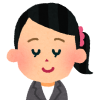
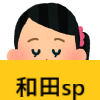
データ要素追加

diff --git a/src/components/Book_list.vue b/src/components/Book_list.vue
@@ -111,9 +111,10 @@
                   <ul v-for="emp in filteredemps(book.keyword)" v-bind:key="emp.id">
                     <li>
                       <router-link :to="`/employee/1`">
+                        <p>{{emp.Name}}</p>
                         <img :src="emp.Icon">
                       </router-link>
-                      <button class="buttonmenu" v-on:click="openModal(book)">
+                      <button class="buttonmenu" v-on:click="openModal(book.id,book)">
                         感想を見る
                       </button>
                       <MyModal :val="postBook" :commentId=1 @close="closeModal" v-if="modal[book.id-1]">
@@ -122,7 +123,7 @@
                   </ul>
                 <br />  
               </li>
-              <li>
+              <!-- <li>
                 <img alt="user img" :src="book.employee2" />
                 <br />
                 <button class="buttonmenu" v-on:click="openModal2(book)">
@@ -130,7 +131,7 @@
                 </button>
                 <MyModal :val="postBook"  :commentId=2 @close="closeModal2" v-if="modal2">
                 </MyModal>
-              </li>
+              </li> -->
             </ul>
           </td>
           <!--</div>-->
@@ -231,7 +232,7 @@ export default {
       employees : [
            {id:1,
            Icon:require('../assets/emp4.png'),
-           Name:'多田 孝和',
+           Name:'島侑奈',
            Organization1:'技術本部',
            Organization2:'',
            Organization3:'情報システム部',
@@ -273,7 +274,18 @@ export default {
            },
            {id:2,
            Icon:require('../assets/emp2.png'),
+           Name:'多田孝和',
            Skillemp     :'ネットワーク',
+           },
+           {id:3,
+           Icon:require('../assets/Specialist.png'),
+           Name:'松井允希',
+           Skillemp     :'マネジメント',
+           },
+           {id:4,
+           Icon:require('../assets/emp3.png'),
+           Name:'和田奈央子',
+           Skillemp     :'ルーティング',
            },
            ]
            

diff --git a/src/employee.js b/src/employee.js
@@ -1,8 +1,8 @@
 const employees = [
            {id:1,
-           Icon:require('./assets/employee1.png'),
-           Name:'多田 孝和',
-           Organization1:'技術本部 情報システム部　業務システムGr',
+           Icon:require('./assets/emp4.png'),
+           Name:'島侑奈',
+           Organization1:'DXIC',
         //    Organization2:'',
         //    Organization3:'情報システム部',
         //    Organization4:'業務システムGr',
@@ -13,7 +13,7 @@ const employees = [
            ITSS1level   :'4',
            ITSS2        :'Application Specialist',
            ITSS2level   :'4',
-           Skill        :'プロジェクトマネージメント,マネージメント,データ連携,運用設計,給与計算,年末調整,採用,勤務管理,ベンダー管理,ワークフロー,Sharepoint,Intramart',
+           Skill        :'UXデザイナー,プロジェクトマネージメント,マネージメント,データ連携,運用設計,給与計算,年末調整,採用,勤務管理,ベンダー管理,ワークフロー,Sharepoint,Intramart',
            Career1      :'2010年4月商社系Sier入社',
            Career2      :'2010年4月～8月新人研修',
            Career3      :'2010年8月DataSpider検証',
